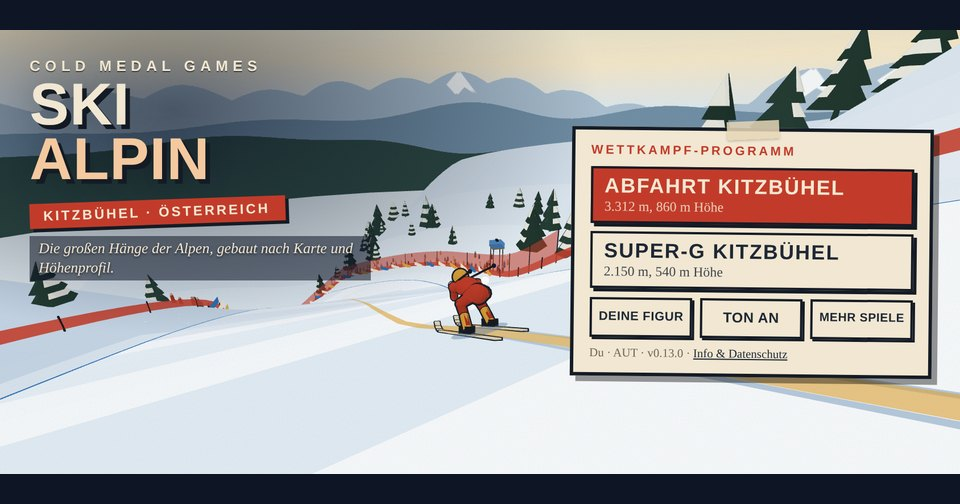
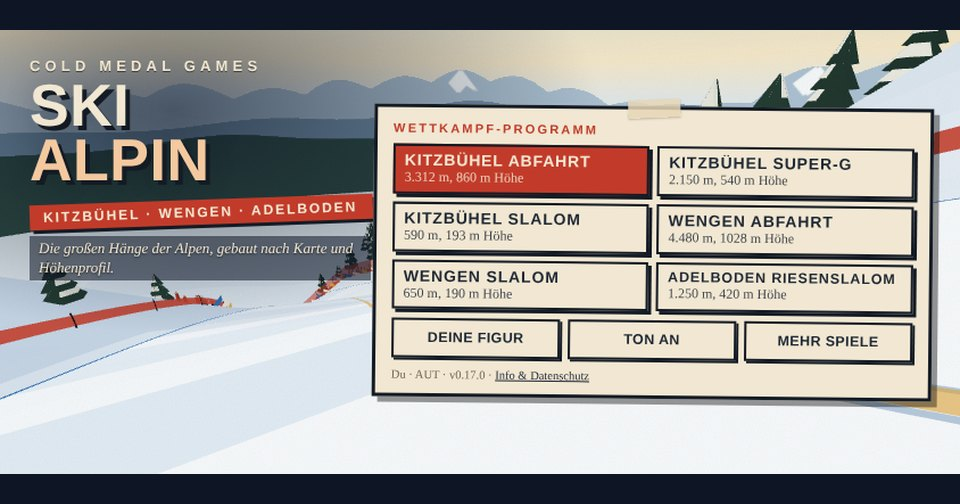
Ski Alpin 0.17.0: Wengen Abfahrt und Slalom
Claude-Session: https://claude.ai/code/session_014DHnXjndFvZdPmDPGwqNQQ

diff --git a/ski-alpin/index.html b/ski-alpin/index.html
@@ -1820,7 +1820,7 @@ tr.cut td { border-bottom: 2px dashed var(--red); }
     { id: "schneeball", name: "Schneeball", pfad: "/cold-medal-schneeball/", satz: "Schnee lesen und so weit werfen wie keiner im Dorf.", gruppen: false },
     { id: "big-air", name: "Big Air", pfad: "/big-air/", satz: "Anlauf, Absprung, Trick und Landung auf der großen Schanze.", gruppen: false },
     { id: "ski-cross", name: "Ski Cross", pfad: "/ski-cross/", satz: "Vier am Start, zwei kommen weiter: Wellen, Kurven, Zweikämpfe.", gruppen: false },
-    { id: "ski-alpin", name: "Ski Alpin", pfad: "/ski-alpin/", satz: "Kitzbühel, Abfahrt und Super-G: die Strecke nach echten Geländedaten.", gruppen: false },
+    { id: "ski-alpin", name: "Ski Alpin", pfad: "/ski-alpin/", satz: "Kitzbühel, Wengen und Adelboden: Abfahrt, Super-G, Riesenslalom und Slalom nach echten Geländedaten.", gruppen: false },
     { id: "eisschnelllauf", name: "Eisschnelllauf", pfad: "/eisschnelllauf/", satz: "Im Takt über das Oval: Kurven drücken, Kraft einteilen.", gruppen: false },
     { id: "eisstock", name: "Eisstock", pfad: "/eisstock/", satz: "Stock um Stock an die Daube: Maß nehmen oder wegschießen.", gruppen: false },
     { id: "hoernerschlitten", name: "Hörnerschlitten", pfad: "/hoernerschlitten/", satz: "Mit dem Heuschlitten ins Tal: lenken, bremsen, nicht kippen.", gruppen: false },
@@ -2960,12 +2960,20 @@ tr.cut td { border-bottom: 2px dashed var(--red); }
     ganslern: () => ({ ort: "Kitzbühel", daten: ausLift(DAT().ganslern, 1004), glatt: 30, halb: 17, abschnitte: [[9999, "Starthang", 15], [975, "Steilhang", 17], [866, "Querfahrt", 17], [852, "Zielhang", 18]],
       plan: { slalom: { ab: null, ziel: 811, tor: { ab: 11, aus: 1.3, w: 2.4, erst: 26 } } }, kulisse: (K) => ({ dorf: true, starthaus: true, tribuene: 1, lift: -1, fahnen: ["#C8102E", "#FFFFFF", "#C8102E"], zuschauer: [[K.lang * 0.45, K.lang + 70, 0]] }) }),
     chuenis: () => ({ ort: "Adelboden", daten: ausLift(DAT().chuenis), glatt: 30, halb: 20, abschnitte: [[9999, "Starthang", 18], [1700, "Oberer Steilhang", 20], [1560, "Mittelteil", 20], [1400, "Zielhang", 22]],
-      plan: { riesenslalom: { ab: 1730, ziel: 1310, tor: { ab: 27, aus: 4, w: 3.2, erst: 45 } } }, kulisse: (K) => ({ dorf: true, starthaus: true, tribuene: 1, lift: -1, stadel: true, fahnen: ["#D52B1E", "#FFFFFF", "#D52B1E"], zuschauer: [[K.lang * 0.72, K.lang + 70, 0]] }) }),
+      plan: { riesenslalom: { ab: 1730, ziel: 1310, tor: { ab: 27, aus: 4, w: 3.2, erst: 45 } } }, kulisse: (K) => ({ dorf: true, starthaus: true, tribuene: 1, lift: -1, stadel: true, fahnen: ["#D52B1E", "#D52B1E", "#D52B1E"], zuschauer: [[K.lang * 0.72, K.lang + 70, 0]] }) }),
+    // Wengen: echte Pistenlinie mit Höhenprofil. Die Lage der Abschnitte (Höhen) ist aus dem Profil geschätzt; sicher ist nur die Wasserstation (Tunnel bei 1778 m).
+    wengen: () => ({ ort: "Wengen", daten: DAT().wengen, monoton: true, glatt: 14, halb: 18, abschnitte: [[9999, "Starthang", 16], [2262, "Russisprung", 16], [2225, "Traversenschuss", 15], [2190, "Panoramakurve", 15], [2160, "Hundschopf", 10], [2125, "Minschkante", 13], [2060, "Canadian Corner", 14], [1990, "Alpweg", 7], [1880, "Kernen-S", 9], [1800, "Wasserstation", 6], [1770, "Langentrejen", 14], [1610, "Haneggschuss", 14], [1495, "Seilersboden", 16], [1450, "Silberhornsprung", 16], [1400, "Österreicherloch", 16], [1378, "Ziel-S", 14], [1330, "Zielschuss", 18]],
+      plan: { abfahrt: { ab: 2311, ziel: 1287 } }, /* 4 m unter dem veröffentlichten Start: die kartierte Linie macht ganz oben einen Haken (Weg vom Lift zum Starthaus) */ kulisse: (K, uBei) => ({ dorf: true, starthaus: true, tribuene: 1, stadel: true, fahnen: ["#D52B1E", "#D52B1E", "#D52B1E"], huetten: [[uBei(1790), 1]],
+        netze: [[1880, 1800], [1378, 1330]].map(([h0, h1]) => { const a = uBei(h0), b = uBei(h1); let s = 0; for (let u = a; u < b; u += 10) s += K.kr(u); return [a, b, s > 0 ? -1 : 1]; }).filter(([a, b]) => b - a > 12),
+        zuschauer: [[uBei(2165), uBei(2120), 0], [uBei(1850), uBei(1800), 1], [uBei(1340), K.lang + 70, 0]].filter(([a, b]) => b - a > 12) }) }),
+    wengenSlalom: () => ({ ort: "Wengen", daten: DAT().wengenSlalom, glatt: 14, halb: 17, abschnitte: [[9999, "Starthang", 15], [1445, "Steilhang", 16], [1350, "Zielhang", 17]],
+      plan: { slalom: { ab: 1477, ziel: 1287, tor: { ab: 11, aus: 1.3, w: 2.4, erst: 26 } } }, kulisse: (K) => ({ dorf: true, starthaus: true, tribuene: 1, fahnen: ["#D52B1E", "#D52B1E", "#D52B1E"], zuschauer: [[K.lang * 0.45, K.lang + 70, 0]] }) }),
   };
   function kitz(disz, hang) {
     const G = hang ? HAENGE[hang]() : null, ABS = G ? G.abschnitte : KITZ_ABSCHNITTE;
     const HALB = G ? G.halb : 20, PL = G ? G.plan[disz] : KITZ_PLAN[disz], eng = !!PL.tor;
-    const D = G ? G.daten : DAT().kitz, sg = disz === "superg"; const L = linie(D, PL.ab); if (disz === "abfahrt") L.hoehen = kante(L.hoehen, 128, 83, 42, 8, 245, 100);        // Mausefalle: veröffentlicht 85 %, Sprung im Rennen 50 bis 60 m
+    const D = G ? G.daten : DAT().kitz, sg = disz === "superg"; const L = linie(D, PL.ab); if (G && G.monoton) for (let i = 1; i < L.hoehen.length; i++) L.hoehen[i][1] = Math.min(L.hoehen[i][1], L.hoehen[i - 1][1] - 0.05);      // einzelne Ausreißer nach oben im Höhenprofil würden zu Schanzen
+    if (disz === "abfahrt" && !G) L.hoehen = kante(L.hoehen, 128, 83, 42, 8, 245, 100);        // Mausefalle: veröffentlicht 85 %, Sprung im Rennen 50 bis 60 m
     const basis = { punkte: L.punkte, hoehen: L.hoehen, zielHoehe: PL.ziel, halb: HALB, rand: 8, glatt: G ? G.glatt : 14 };
     const roh = P.kursLinie(basis), y0 = L.hoehen[0][1], NB = Math.ceil((roh.uMax - roh.uMin) / 4) + 1, BR = new Float64Array(NB);
     // Breite entlang der Strecke: je Abschnitt ein Wert, über rund 60 m weich ineinander
@@ -2993,7 +3001,7 @@ tr.cut td { border-bottom: 2px dashed var(--red); }
     K.zwischen = [0.2, 0.4, 0.6, 0.8].map((q) => Math.round(q * K.lang));
     if (disz === "abfahrt") K.torFarbe = "#C23B2A";       // in der Abfahrt sind alle Tore rot, im Super-G wechseln rot und blau
     if (disz === "slalom") K.torArt = "stange";         // Slalom: Kippstangen ohne Tuch
-    K.kulisse = G ? G.kulisse(K) : { starthaus: true, tribuene: 1, fahnen: ["#C8102E", "#FFFFFF", "#C8102E"], huetten: [[uBei(1222), -1]], dorf: tal, stadel: true, lift: -1, netze: [[1640, 1560], [1520, 1440], [1080, 1000], [960, 880]].map(([h0, h1]) => { const a = uBei(h0), b = uBei(h1); let s = 0; for (let u = a; u < b; u += 10) s += K.kr(u); return [a, b, s > 0 ? -1 : 1]; }).filter(([a, b]) => b - a > 12),      // außen an der Kurve
+    K.kulisse = G ? G.kulisse(K, uBei) : { starthaus: true, tribuene: 1, fahnen: ["#C8102E", "#FFFFFF", "#C8102E"], huetten: [[uBei(1222), -1]], dorf: tal, stadel: true, lift: -1, netze: [[1640, 1560], [1520, 1440], [1080, 1000], [960, 880]].map(([h0, h1]) => { const a = uBei(h0), b = uBei(h1); let s = 0; for (let u = a; u < b; u += 10) s += K.kr(u); return [a, b, s > 0 ? -1 : 1]; }).filter(([a, b]) => b - a > 12),      // außen an der Kurve
       zuschauer: [[uBei(1628), uBei(1548), 0], [uBei(1500), uBei(1432), 1], [uBei(1256), uBei(1212), 1], [uBei(1052), uBei(986), -1], [tal ? uBei(850) : K.lang - 70, K.lang + 70, 0]].filter(([a, b]) => b - a > 12 && a < K.lang + 60) };
     K.torGroesse = eng ? 1.15 : 1.5;                                                        // Fahnen größer als echt, damit man sie von weitem erkennt
     K.anschub = disz === "slalom" ? 4.5 : 7;                                                             // Abstoßen und Schlittschuhschritte aus dem Starttor, m/s
@@ -3009,6 +3017,8 @@ tr.cut td { border-bottom: 2px dashed var(--red); }
     { id: "kitz-superg", ort: "Kitzbühel", land: "AUT", disz: "superg", baue: () => kitz("superg"), daten: { lang: 2150, start: 1345, ziel: 805 } },
     // modell: keine veröffentlichte Strecke, die Zahlen sind die des gebauten Kurses
     { id: "kitz-ganslern", ort: "Kitzbühel", land: "AUT", disz: "slalom", baue: () => kitz("slalom", "ganslern"), daten: { lang: 590, start: 1004, ziel: 811, tol: 0.07 } },      // tol: die Liftachse ist 6 % länger als die veröffentlichte Strecke
+    { id: "wengen-abfahrt", ort: "Wengen", land: "SUI", disz: "abfahrt", baue: () => kitz("abfahrt", "wengen"), daten: { lang: 4480, start: 2315, ziel: 1287, tol: 0.12 } },      // tol: die kartierte Linie ist kürzer als die veröffentlichte Strecke
+    { id: "wengen-slalom", ort: "Wengen", land: "SUI", disz: "slalom", baue: () => kitz("slalom", "wengenSlalom"), daten: { lang: 650, start: 1477, ziel: 1287, tol: 0.17 } },
     { id: "adelboden-riesenslalom", ort: "Adelboden", land: "SUI", disz: "riesenslalom", baue: () => kitz("riesenslalom", "chuenis"), daten: { lang: 1250, start: 1730, ziel: 1310, modell: true } },      // Start und Ziel veröffentlicht, Länge die des Modells
   ];
   // Fahrer im Starttor mit dem Schwung des Abstoßens
@@ -3036,7 +3046,7 @@ tr.cut td { border-bottom: 2px dashed var(--red); }
     if (s && s !== Z.vz) { Z.vz = s; Z.t = 0; Z.ok = Z.vor === s && Z.tVor < SCHWUNG.frueh; Z.guete = Z.ok ? -Z.tVor : null; }        // Kantenwechsel der Linie
     if (!Z.ok && seite && seite === Z.vz) { Z.ok = true; Z.guete = Z.t; }                                                            // Bogen bestätigt
     // Wer den Wechsel genau trifft, schneidet den Bogen sauber (weniger Reibung im Bogen, f.drift); spät oder zu früh driftet der Ski mehr
-    f.drift = Z.ok ? 0.88 + 0.5 * P.clamp(Math.abs(Z.guete) / 0.3, 0, 1) : 1.4;
+    f.drift = (Z.ok ? 0.9 + 0.48 * P.clamp(Math.abs(Z.guete) / 0.3, 0, 1) : 1.4) * (1 + 1.3 * P.clamp((Math.tan(K.grad(f.u) * P.RAD) - 0.42) / 0.3, 0, 1));      // im Steilhang driftet er von selbst stärker an (dort bremst der Vorläufer)
     if (Z.ok) return { lenk: b, soll: b, ok: true, guete: Z.guete };
     if (seite && seite !== Z.vz) return { lenk: seite * SCHWUNG.falsch, soll: b, ok: false };
     return { lenk: b * P.clamp((SCHWUNG.spaet - Z.t) / (SCHWUNG.spaet - SCHWUNG.voll), 0, 1), soll: b, ok: false };
@@ -3051,6 +3061,20 @@ tr.cut td { border-bottom: 2px dashed var(--red); }
 (function (root) {
   "use strict";
   const SADaten = {
+    // Wengen: OpenSkiMap API, Suche „Lauberhorn“, von Mat geschickt am 17.11.2026 (Rohdaten in docs/roh/). Abfahrt: Piste 45 „Lauberhorn Weltcup-Abfahrt“ in drei Stücken
+    // (das mittlere ist der Tunnel an der Wasserstation); der zweite erfasste Weg zwischen 2183 und 1982 m (way/670568317) ist nicht verwendet. Slalom: Piste 47 „Lauberhorn Weltcup Slalom“.
+    wengen: { quelle: "OpenStreetMap-Mitwirkende (ODbL), über OpenSkiMap", teile: [
+      { osm: "way/52331677", res: 24.81591021378556, coords: [[7.9473123,46.5864603,2317.7],[7.9469722,46.5861861,2315.3],[7.946645,46.5860534,2314.5],[7.9466315,46.5860302,2314.1],[7.9467452,46.5858704,2311.4],[7.9469535,46.5853733,2292.3],[7.9472607,46.5846679,2266.5],[7.9475801,46.5842045,2249.3],[7.9479298,46.5838173,2237.4],[7.9480317,46.5834947,2229.4],[7.9479784,46.5833662,2225.4],[7.9477979,46.583284,2220.5],[7.9474282,46.5832624,2213.5],[7.947065,46.5833127,2209.1],[7.9464144,46.5835338,2196.6],[7.9460077,46.583473,2188.4],[7.9454523,46.5832298,2181],[7.9437147,46.5823137,2148],[7.9424144,46.5816141,2111.2],[7.941659,46.5813022,2087.9],[7.9408957,46.580875,2060.5],[7.9404651,46.5805227,2042.3],[7.940149,46.5797963,2021.7],[7.9401173,46.5791604,2008.7],[7.9399719,46.5787827,1999.1],[7.9397005,46.5785958,1992.6],[7.9391241,46.5785106,1981.8],[7.9387915,46.5783784,1975.7],[7.9387245,46.5783277,1974.4],[7.9386871,46.5782872,1972.8],[7.9386839,46.5782061,1967.2],[7.9387084,46.5781115,1963.4],[7.938704,46.5780061,1958.8],[7.9385812,46.577889,1951.5],[7.9382899,46.5777889,1939],[7.9380673,46.5776819,1931.3],[7.9378954,46.5775157,1923.7],[7.9377375,46.5770434,1903.9],[7.9376529,46.5768452,1898.8],[7.937508,46.5767396,1894.7],[7.93725,46.5766458,1886.3],[7.9368933,46.576637,1879.9],[7.936458,46.5767472,1870.1],[7.936116,46.5768997,1865.2],[7.9355385,46.5772888,1849.5],[7.9348409,46.5779459,1836.8],[7.9347333,46.5780828,1834.9],[7.9347132,46.5781728,1833.9],[7.9347363,46.5782432,1832.9],[7.9349541,46.5784763,1827.7],[7.9350126,46.578562,1826.1],[7.9350123,46.5786111,1820.9],[7.9349637,46.5786736,1822.9],[7.9347266,46.5788748,1820.6],[7.9343937,46.5790566,1816.6],[7.9341218,46.5791716,1810.1],[7.9338448,46.5792298,1799.7],[7.9331233,46.5792619,1778.2]],
+        heights: [2317.7,2317.5,2315,2313.9,2310.1,2301,2292.3,2285.3,2276.1,2268.7,2262,2253.1,2247.7,2241.1,2235.9,2230,2224.2,2217.7,2211.8,2208,2202.9,2195.7,2189.2,2186.8,2183.3,2172.5,2164.8,2158.2,2152.2,2151.5,2150.9,2147.9,2141.8,2135.5,2126.2,2117.7,2111.5,2104.4,2096.3,2085,2076.5,2067.4,2058.7,2049.8,2041.7,2035.9,2029.8,2023.3,2018.2,2014.1,2009.3,2003.5,1998.4,1992.9,1987.3,1981.2,1975.9,1966.6,1956.7,1944.4,1933.6,1925.9,1918.8,1908.7,1900.2,1894.6,1885.3,1879.6,1873.3,1867.5,1863.8,1856.7,1850.1,1847.4,1843.6,1839.5,1836.3,1833.7,1829.9,1824,1823,1819,1815.8,1808.9,1797.6,1785.8,1778.2] },
+      { osm: "way/670568315", res: 9.593080993756795, coords: [[7.9331233,46.5792619,1778.2],[7.9330009,46.579281,1777.1]],
+        heights: [1778.2,1777.1] },
+      { osm: "way/670568314", res: 24.938353874862756, coords: [[7.9330009,46.579281,1777.1],[7.9326184,46.579403,1775.9],[7.9322268,46.579572,1769.4],[7.9317239,46.5797505,1760.7],[7.931438,46.5798669,1755.2],[7.9309403,46.5800695,1746.8],[7.9300557,46.5805267,1725.8],[7.9293868,46.5812073,1702.2],[7.9288533,46.5820364,1674.2],[7.9285194,46.5826331,1659.5],[7.9284382,46.5831426,1645.2],[7.9280673,46.5836426,1625.5],[7.9278018,46.5839406,1611.3],[7.9277546,46.5845025,1593.8],[7.9272883,46.5855222,1546.1],[7.9272312,46.586159,1511.3],[7.9272682,46.5864464,1496],[7.9273781,46.5873012,1479.1],[7.9274189,46.5877567,1474.6],[7.9274136,46.5883023,1465.3],[7.9272969,46.5886341,1461.2],[7.9269324,46.5894522,1434],[7.9265967,46.5907766,1393.3],[7.9266089,46.5909934,1389],[7.9266706,46.5911335,1385.1],[7.9267747,46.5913524,1380.7],[7.9267848,46.5915598,1380.4],[7.9266813,46.5917381,1378.1],[7.92628,46.5921569,1365.2],[7.9260537,46.5922984,1357.1],[7.925846,46.5924758,1347.5],[7.9256931,46.592944,1329.1],[7.9255473,46.5932841,1307.6],[7.9252956,46.5935664,1293.9],[7.9247704,46.5937716,1285.5],[7.9238376,46.5939397,1275.2],[7.9236552,46.5940126,1272.9],[7.9236089,46.5940356,1272.7]],
+        heights: [1777.1,1777.1,1772.4,1768.1,1763,1757.6,1752.5,1747.9,1742.5,1736,1729.4,1723.6,1717.3,1710.7,1704.1,1697,1689.3,1682.5,1676.1,1670.5,1665.4,1660.5,1655.2,1648.4,1641.1,1633.4,1625,1616.2,1607.6,1600.9,1594,1586,1573.6,1565.5,1555.3,1543.7,1531.4,1518.6,1507.1,1495.6,1489.1,1485.5,1480.8,1478.7,1476.9,1473.9,1469.6,1466.1,1463.4,1460.3,1457.2,1448.8,1439.4,1430.8,1423.7,1414.4,1405.7,1399.8,1396.4,1391.1,1386.2,1381.2,1380.5,1378.1,1373.5,1366.7,1358.5,1349.1,1341.1,1332.6,1320.6,1306,1296.1,1290.1,1286.2,1282.3,1278.6,1275.8,1272.7] },
+    ] },
+    wengenSlalom: { quelle: "OpenStreetMap-Mitwirkende (ODbL), über OpenSkiMap", teile: [
+      { osm: "way/52331694", res: 24.94361871302492, coords: [[7.9306222,46.5936744,1487.9],[7.9296941,46.5946034,1450.2],[7.9294038,46.5948014,1438.1],[7.9290606,46.5948766,1427.6],[7.9284259,46.5947942,1410.3],[7.9280251,46.5948825,1405.1],[7.927664,46.595039,1391.4],[7.9273358,46.5950594,1374.9],[7.9268381,46.5949442,1355.9],[7.9265734,46.5947121,1343.5],[7.9263675,46.5944678,1333.9],[7.9257675,46.5942968,1310.8],[7.9256353,46.5942024,1309.1],[7.9250801,46.5939554,1289.2],[7.9247704,46.5937716,1285.5]],
+        heights: [1487.9,1481.6,1474.5,1466.1,1457.3,1450.4,1440.6,1431.5,1422.3,1412.9,1406.6,1402.7,1390.8,1374.3,1361.7,1351.9,1342.5,1335.9,1322.1,1311.6,1306.9,1294.5,1289,1285.5] },
+    ] },
     // Kitzbühel, Slalomhang: die Piste selbst ist in OpenStreetMap nur im obersten Stück erfasst. Verwendet wird die Achse des Sessellifts, der am Hang entlangführt
     // (way/30860754, sechs Punkte mit Geländehöhe, von oben nach unten). OpenSkiMap API, Suche „Ganslern“, von Mat geschickt am 17.11.2026.
     ganslern: { quelle: "OpenStreetMap-Mitwirkende (ODbL), über OpenSkiMap", osm: "way/30860754", lift: [[12.3760133, 47.4422127, 1000.6], [12.3772033, 47.4427187, 971.8], [12.379677, 47.4437704, 862.8], [12.381101, 47.4443759, 853.4], [12.3835287, 47.4454291, 779.4], [12.3840639, 47.4456613, 777.7]] },
@@ -3086,7 +3110,9 @@ tr.cut td { border-bottom: 2px dashed var(--red); }
 // Einzelrennen auf Zeit auf nachgebauten Strecken. Zwei Eingaben: links/rechts (Kante) und Hocke.
 (function () {
   "use strict";
-  const VERSION = "0.16.0";
+  const VERSION = "0.17.0";
+  // Sechs Strecken und mehr: das Programm im Menü steht in zwei Spalten, die Karte ist dafür breiter
+  { const s = document.createElement("style"); s.textContent = "#scrMenu .card.menu { width: 500px; } #scrMenu #mModi { display: grid; grid-template-columns: 1fr 1fr; gap: 7px; } #scrMenu #mModi .big { font-size: 14px; padding: 5px 8px; min-width: 0; }"; document.head.appendChild(s); }
   const S = window.SAKurse, P = window.SXPhys, WELT = window.SXWelt, B = window.SXBedienung, DT = 1 / P.CFG.HZ;
   const KIT = { head: "helmet", feet: "skiBoots", torso: "bib", hands: "poles", glove: true };
   const kurse = {}, welten = {}, vorlauf = {};
@@ -3194,16 +3220,16 @@ tr.cut td { border-bottom: 2px dashed var(--red); }
   let demo = null, demoAcc = 0;
   const D0 = S.STRECKEN[0];
   R = window.CMRahmen.spiel({
-    id: "ski-alpin", name: "Ski Alpin", titel: ["Ski", "Alpin"], band: "Kitzbühel · Österreich", version: VERSION, kit: KIT,
+    id: "ski-alpin", name: "Ski Alpin", titel: ["Ski", "Alpin"], band: "Kitzbühel · Wengen · Adelboden", version: VERSION, kit: KIT,
     satz: "Die großen Hänge der Alpen, gebaut nach Karte und Höhenprofil.",
-    modi: S.STRECKEN.map((st) => ({ id: st.id, name: S.DISZ[st.disz].name + " " + st.ort, start: () => fahrt(st),
+    modi: S.STRECKEN.map((st) => ({ id: st.id, name: st.ort + " " + S.DISZ[st.disz].name, start: () => fahrt(st),
       sub: (R) => (R.S.best && R.S.best["zeit_" + st.id] ? `Bestzeit ${R.zeit(R.S.best["zeit_" + st.id])}` : `${tausend(st.daten.lang)} m, ${st.daten.start - st.daten.ziel} m Höhe`) })),
     info: [["So geht’s", "Du siehst den Fahrer von hinten. Links und rechts kanten die Ski auf: Je länger du hältst, desto enger wird der Bogen. Die Hocke macht schnell. Fahr zwischen den beiden Fahnen jedes Tors durch; ein verpasstes Tor kostet zwei Sekunden, in Riesenslalom und Slalom drei."],
       ["Riesenslalom und Slalom", "Hier lenkst du nicht mit dem Schieber, sondern gibst den Takt: links, rechts, links. Jeder Druck löst einen Bogen um die nächste Stange aus, den der Fahrer selbst zieht. Der Knopf, der dran ist, blinkt. Triffst du den Wechsel genau, schneidet der Ski sauber und du wirst schneller; zu spät oder zu früh driftet er. Lässt du einen Bogen aus, fährt er geradeaus am Tor vorbei."],
       ["Kante", "Der Balken unten zeigt, wie viel die Kante trägt. Ist er voll, rutscht der Ski und du verlierst Tempo. In der Hocke hält die Kante schlechter."],
       ["Bremse", "Der kleine Knopf über der Hocke stemmt die Ski quer und richtet den Fahrer auf. Vor engen Kurven wie der Einfahrt in den Steilhang kurz bremsen, statt im Tiefschnee zu landen."],
       ["Sprünge", "An den Kanten hebt der Fahrer von selbst ab und fliegt eine Wurfparabel. Wer vor der Kante in die Hocke geht, springt flacher und kürzer; wer sich dort streckt, fliegt weiter."],
-      ["Strecken", "Kitzbühel, Abfahrt und Super-G: Verlauf und Höhen folgen der in OpenStreetMap eingetragenen Rennstrecke (Höhenprofil alle 24 m), geprüft gegen die veröffentlichten Daten: Start 1.665 m, Ziel 805 m, 3.312 m; Super-G ab 1.345 m, 2.150 m. Die Kante der Mausefalle ist nach dem veröffentlichten Gefälle von 85 % nachgeschärft. Breite der Piste, Seitenneigung und Tore sind geschätzt. Der Slalom in Kitzbühel und der Riesenslalom in Adelboden folgen der Achse des Sessellifts am Rennhang, weil die Rennpisten selbst nicht kartiert sind: Start, Ziel und Höhen stimmen, der Hang ist dazwischen gerade verbunden, die Kurssetzung ist erfunden. Kartendaten © OpenStreetMap-Mitwirkende (ODbL), über OpenSkiMap."],
+      ["Strecken", "Kitzbühel, Abfahrt und Super-G: Verlauf und Höhen folgen der in OpenStreetMap eingetragenen Rennstrecke (Höhenprofil alle 24 m), geprüft gegen die veröffentlichten Daten: Start 1.665 m, Ziel 805 m, 3.312 m; Super-G ab 1.345 m, 2.150 m. Die Kante der Mausefalle ist nach dem veröffentlichten Gefälle von 85 % nachgeschärft. Breite der Piste, Seitenneigung und Tore sind geschätzt. Abfahrt und Slalom in Wengen folgen den kartierten Rennpisten mit Höhenprofil (die Linie ist rund ein Zehntel kürzer als die veröffentlichte Strecke; wo die bekannten Stellen liegen, ist aus dem Profil geschätzt). Der Slalom in Kitzbühel und der Riesenslalom in Adelboden folgen der Achse des Sessellifts am Rennhang, weil die Rennpisten selbst nicht kartiert sind: Start, Ziel und Höhen stimmen, der Hang ist dazwischen gerade verbunden, die Kurssetzung ist erfunden. Kartendaten © OpenStreetMap-Mitwirkende (ODbL), über OpenSkiMap."],
       ["Ideallinie", "Die Linie im Schnee ist die Spur des Vorläufers. Grün heißt: dein Tempo passt. Orange und rot heißt: für die Kurve dort bist du zu schnell, also bremsen oder aus der Hocke. Oben steht neben deinem Tempo das Soll, das Tempo des Vorläufers an dieser Stelle."],
       ["Zwischenzeiten", "An vier Stellen siehst du deinen Abstand zum Vorläufer: grün heißt schneller, rot langsamer."],
       ["Vorschau", "Rechts oben siehst du die nächsten zehn Sekunden der Strecke von oben: rot heißt steil, ein goldener Strich quer ist eine Kante, an der gesprungen wird, die Punkte sind Tore, die goldene Linie ist die Ideallinie."],

diff --git a/spiele.js b/spiele.js
@@ -12,7 +12,7 @@
     { id: "schneeball", name: "Schneeball", pfad: "/cold-medal-schneeball/", satz: "Schnee lesen und so weit werfen wie keiner im Dorf.", gruppen: false },
     { id: "big-air", name: "Big Air", pfad: "/big-air/", satz: "Anlauf, Absprung, Trick und Landung auf der großen Schanze.", gruppen: false },
     { id: "ski-cross", name: "Ski Cross", pfad: "/ski-cross/", satz: "Vier am Start, zwei kommen weiter: Wellen, Kurven, Zweikämpfe.", gruppen: false },
-    { id: "ski-alpin", name: "Ski Alpin", pfad: "/ski-alpin/", satz: "Kitzbühel, Abfahrt und Super-G: die Strecke nach echten Geländedaten.", gruppen: false },
+    { id: "ski-alpin", name: "Ski Alpin", pfad: "/ski-alpin/", satz: "Kitzbühel, Wengen und Adelboden: Abfahrt, Super-G, Riesenslalom und Slalom nach echten Geländedaten.", gruppen: false },
     { id: "eisschnelllauf", name: "Eisschnelllauf", pfad: "/eisschnelllauf/", satz: "Im Takt über das Oval: Kurven drücken, Kraft einteilen.", gruppen: false },
     { id: "eisstock", name: "Eisstock", pfad: "/eisstock/", satz: "Stock um Stock an die Daube: Maß nehmen oder wegschießen.", gruppen: false },
     { id: "hoernerschlitten", name: "Hörnerschlitten", pfad: "/hoernerschlitten/", satz: "Mit dem Heuschlitten ins Tal: lenken, bremsen, nicht kippen.", gruppen: false },
